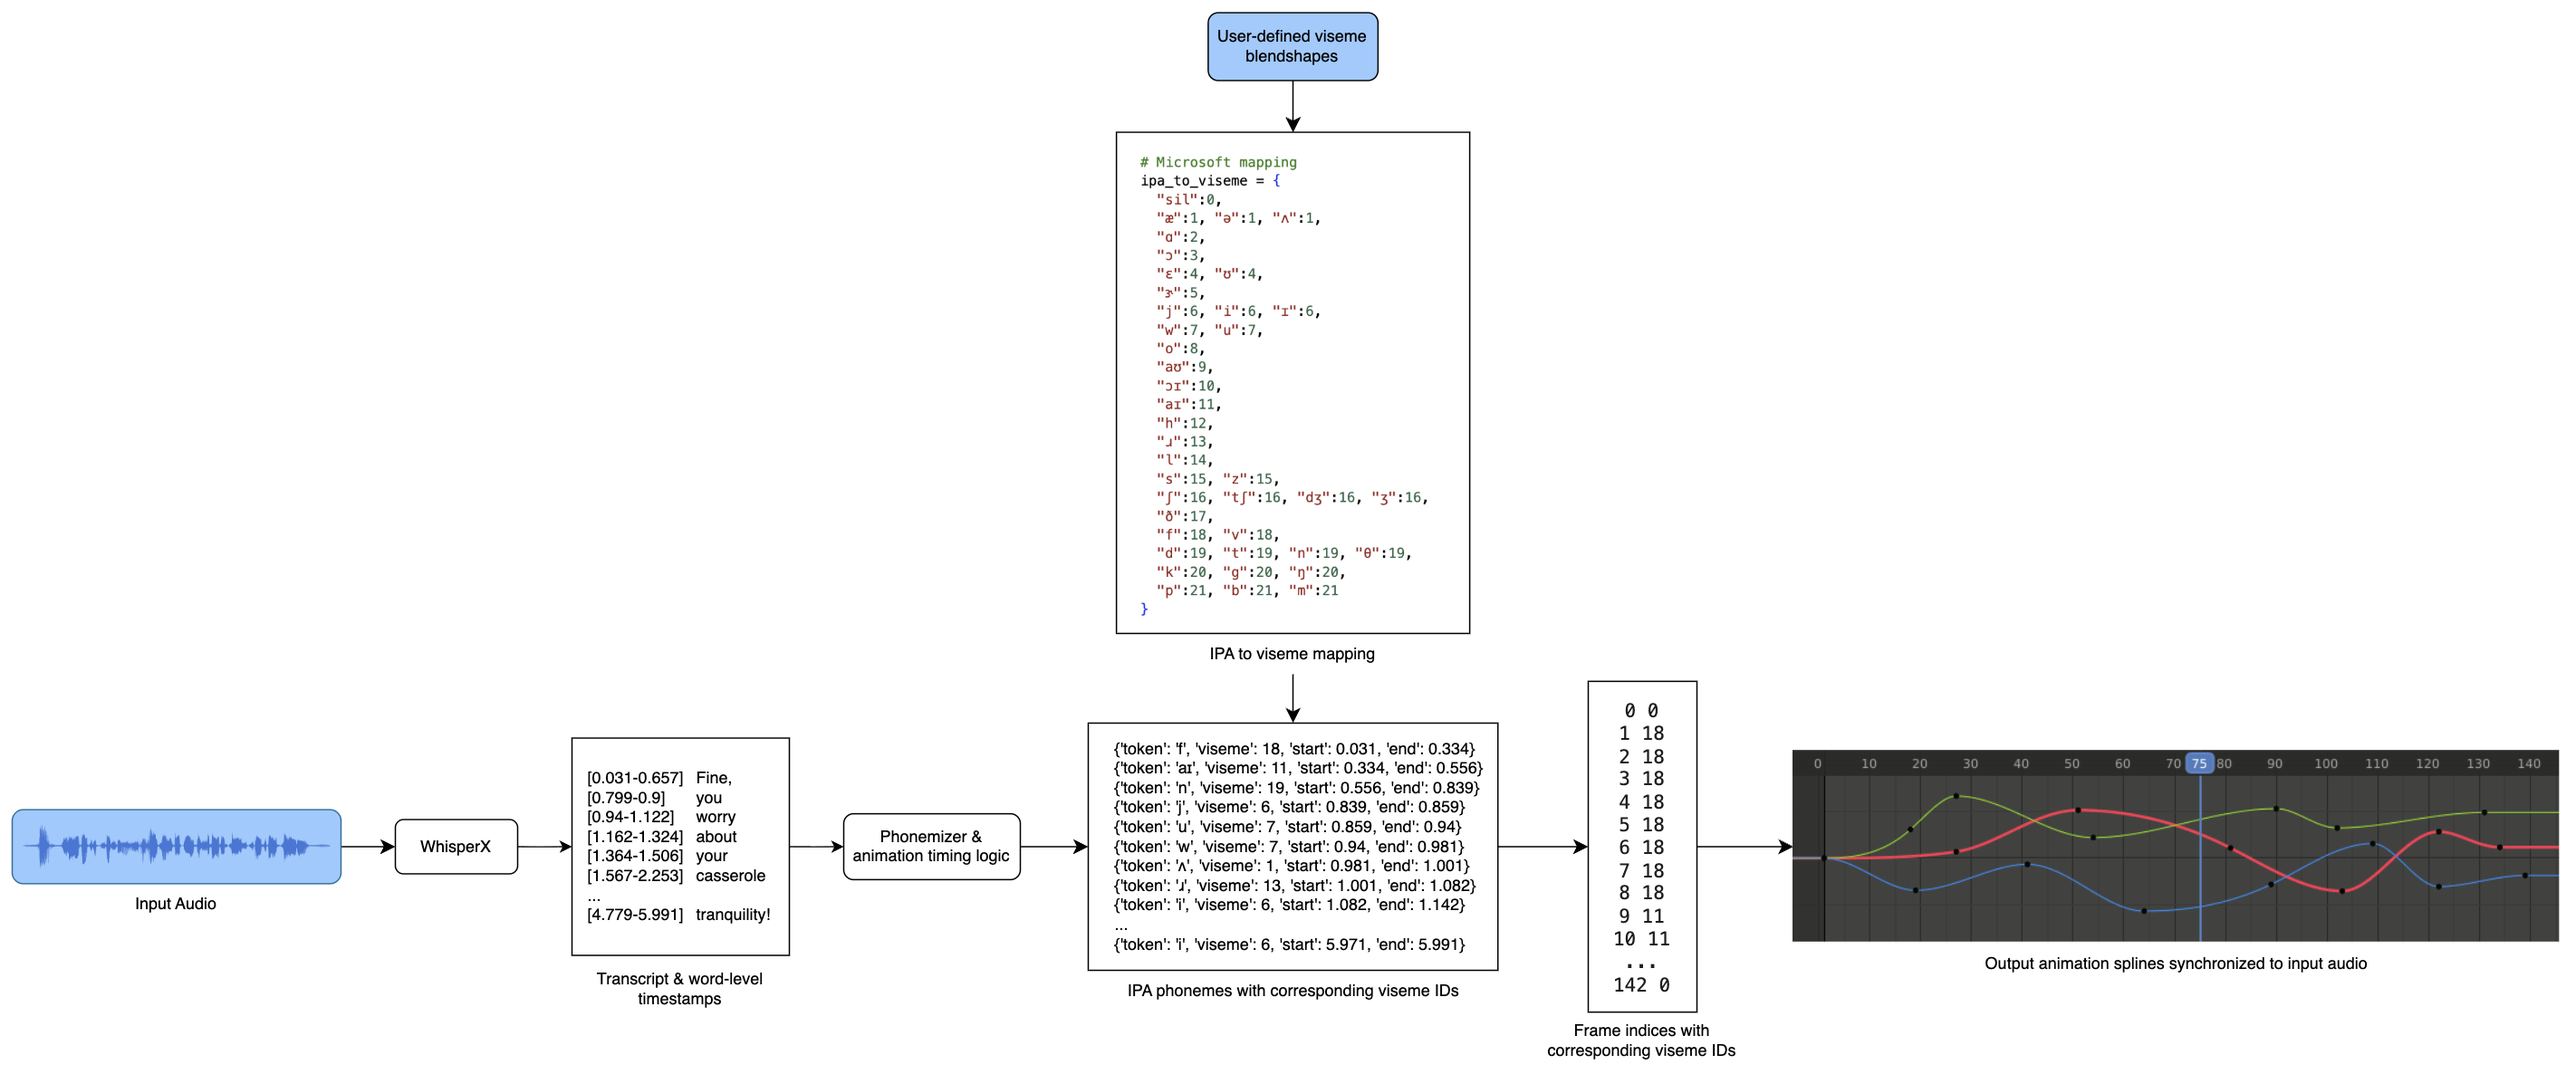
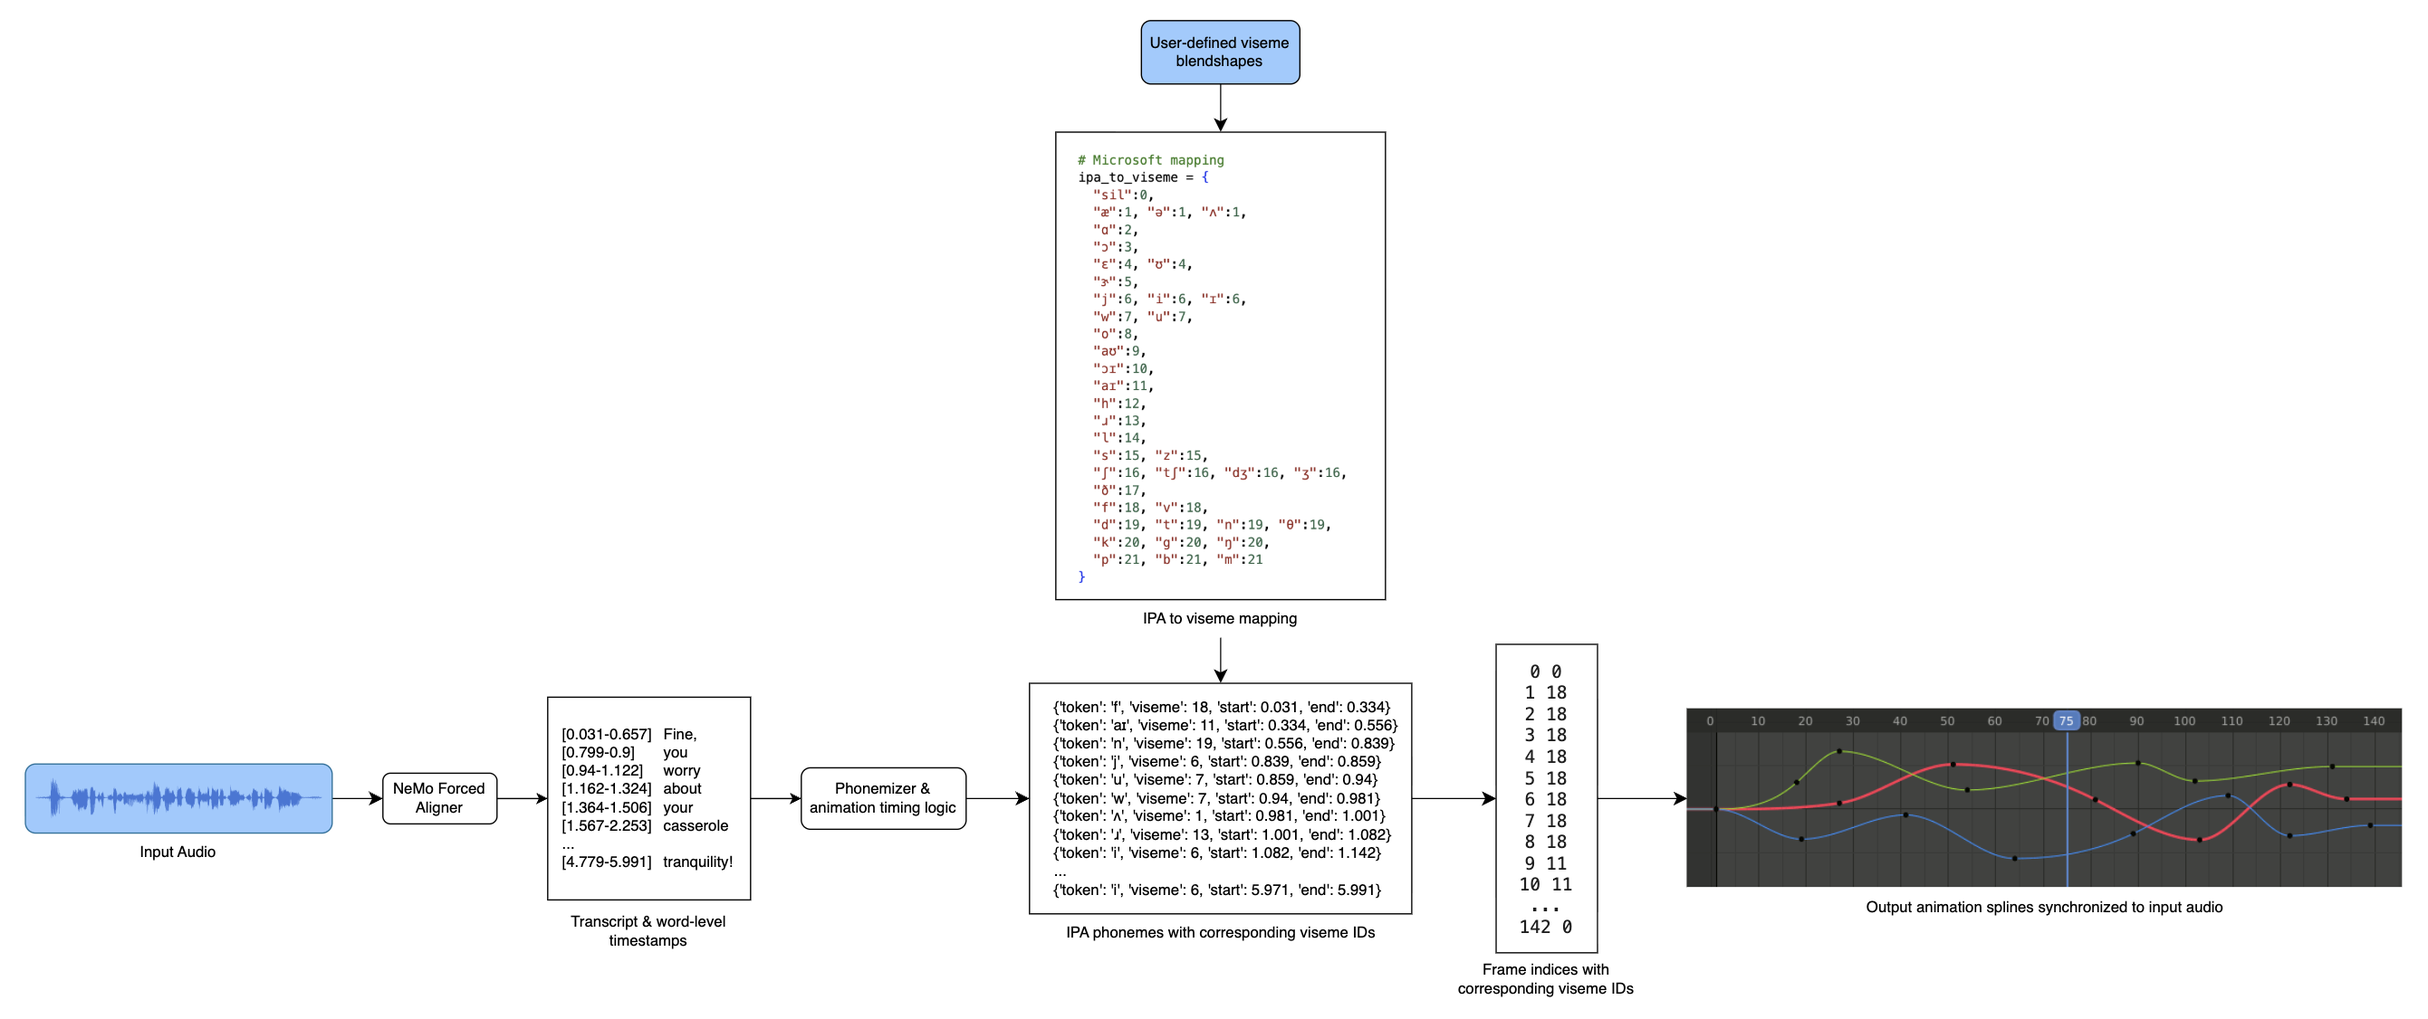
Updated lip sync page

Changed region(s): [[0.0, 0.6217, 1.0, 0.9947], [0.4334, 0.0, 0.5573, 0.6217]]

diff --git a/projects/lipsync.html b/projects/lipsync.html
@@ -20,7 +20,7 @@
         </div>
         <div id="content">
             <h2 class="projects-title">Auto Lip Sync Blender Add-on (WIP)</h2>
-            <p>Python / <a href="https://docs.blender.org/api/current/index.html" target="_blank">Blender API</a> / <a href="https://github.com/m-bain/whisperX" target="_blank">WhisperX</a> / <a href="https://github.com/bootphon/phonemizer" target="_blank">Phonemizer</a> / Google Colab / Facial Rigging</p>
+            <p>Python / <a href="https://docs.blender.org/api/current/index.html" target="_blank">Blender API</a> / <a href="https://docs.nvidia.com/nemo-framework/user-guide/latest/nemotoolkit/tools/nemo_forced_aligner.html" target="_blank">NeMo Forced Aligner</a> / <a href="https://github.com/bootphon/phonemizer" target="_blank">Phonemizer</a> / Google Colab / Facial Rigging</p>
             <p>
                 In a typical 3D animation workflow, characters have a library of facial poses that represent 
                 mouth shapes. To animate dialogue, animators manually place and adjust these shapes over time to match the 
@@ -28,7 +28,7 @@
             </p>
             <p>
                 For my senior capstone project, I'm developing an automatic lip sync Blender add-on 
-                that generates a first pass of lip sync animation given input audio and a phoneme-to-blendshape mapping.
+                that generates a first pass of lip sync animation from input audio and a phoneme-to-blendshape mapping.
                 The goal of this project is to accelerate the blocking stage of lip sync by providing a procedural starting 
                 point for animators to refine rather than build entirely from scratch.
             </p>
@@ -39,23 +39,20 @@
                 <img src="lipsync/system_arch.png">
             </div>
             <p>
-                Here is a visualization of the phoneme-to-viseme mapping working on a line from <i>Over the Hedge</i>. 
-                This is a test output where I used 2D viseme images instead of 3D blendshapes to verify timing and sequence 
-                accuracy. Work is still being done to ensure phoneme timing logic accounts for certain articulatory behavior.
+                Here's a compilation of test output that shows the phoneme-to-viseme mapping working on 15+ English audio clips. 
+                While debugging, I used 2D viseme images instead of 3D blendshapes to verify timing and sequence accuracy.
             </p>
-            <div class="smaller-video">
-                <video controls>
-                    <source src="lipsync/testhedge.mp4" type="video/mp4">
-                </video>
+            <div class="video">
+                <iframe title="vimeo-player" src="https://player.vimeo.com/video/1179116090?badge=0&amp;autopause=0&amp;player_id=0&amp;app_id=58479" width="900" height="500" frameborder="0"    allowfullscreen></iframe>
             </div>
             <p>
-                The final deliverable for this project is a functional Blender add-on that allows users to select and process an audio file less than 25 MB,
+                The final deliverable for this project is a functional Blender add-on that allows users to select and process an audio file (up to 1+ hour duration or as user hardware allows),
                 define phoneme-to-blendshape mappings, and generate lip sync keyframes for a character rig. At this stage, the add-on is being fine-tuned to
-                create reasonable keyframes for English audio as opposed to generalizing for other languages. 
+                create reasonable keyframes for American English audio as opposed to generalizing for other languages. 
             </p>
-            <div class="images">
+            <!-- <div class="images">
                 <img src="lipsync/timeline.png">
-            </div>
+            </div> -->
         </div>
     </body> 
 </html>
